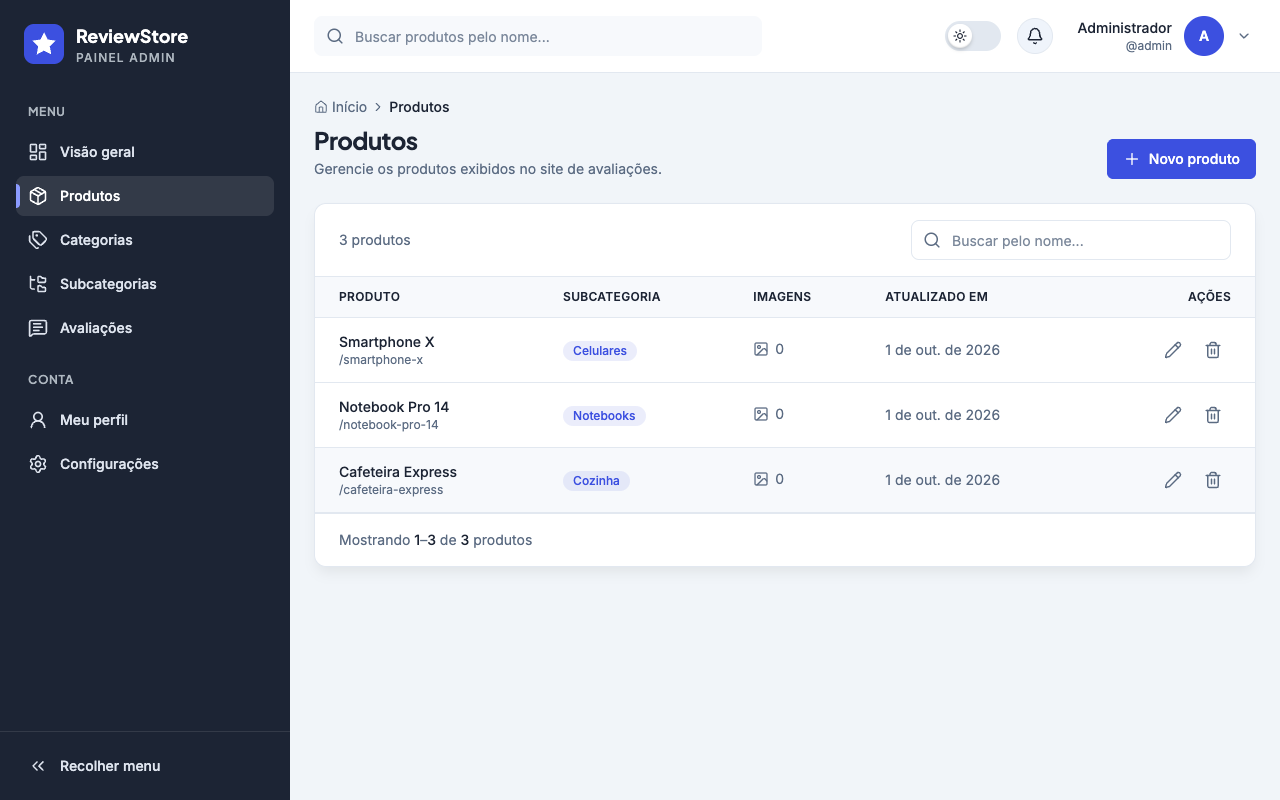
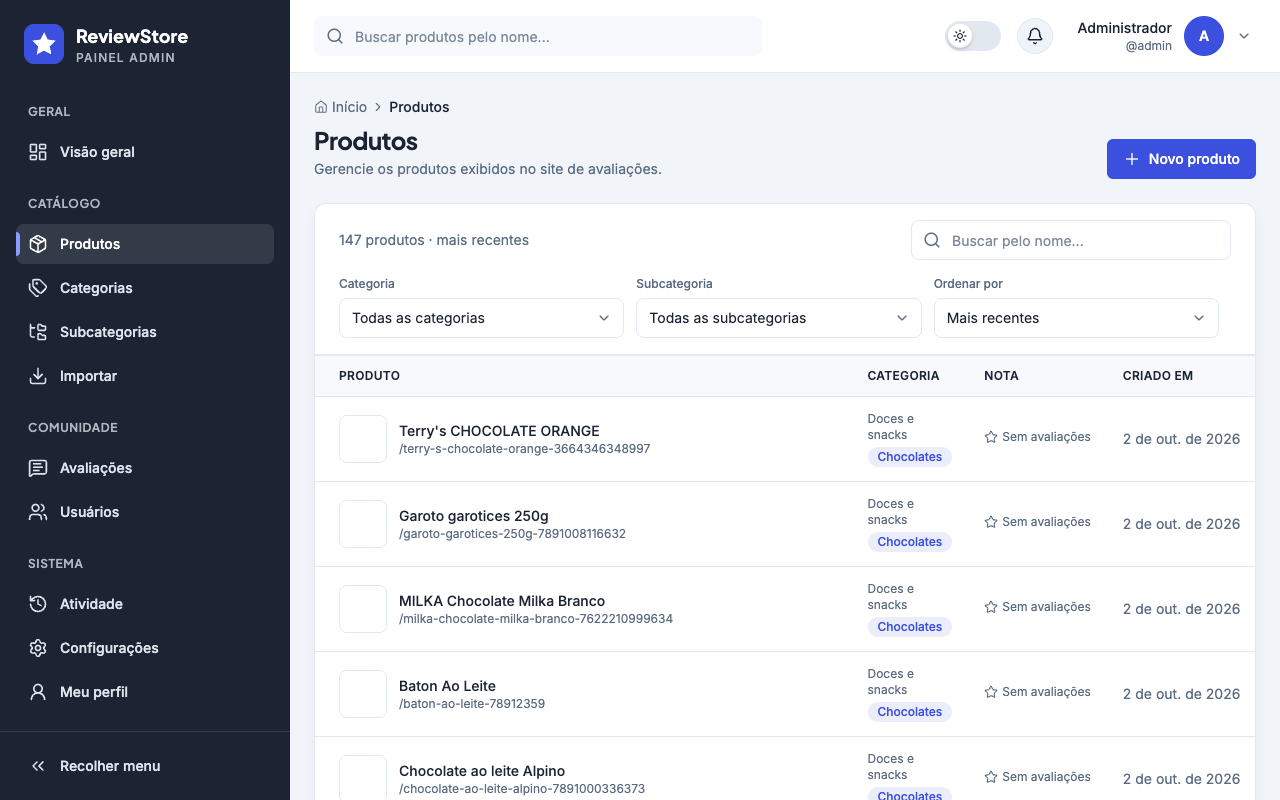
docs(readme): documenta gráficos, importação, moderação, usuários e atividade

diff --git a/README.md b/README.md
@@ -5,7 +5,7 @@
 # ReviewStore · Painel admin
 
 **Painel administrativo do catálogo e das avaliações do ecossistema _Production Review_.**
-Gerencie categorias, subcategorias, produtos e avaliações, e acompanhe tudo em tempo real.
+Gerencie o catálogo, importe produtos reais do Open Food Facts, modere avaliações, administre usuários e acompanhe tudo em gráficos, na trilha de auditoria e em tempo real.
 
 <p>
   <img alt="React 18" src="https://img.shields.io/badge/React-18-3C50E0?style=for-the-badge&logo=react&logoColor=white" />
@@ -15,6 +15,7 @@ Gerencie categorias, subcategorias, produtos e avaliações, e acompanhe tudo em
 </p>
 <p>
   <img alt="React Router" src="https://img.shields.io/badge/React_Router-7-1C2434?style=flat-square" />
+  <img alt="Recharts" src="https://img.shields.io/badge/gráficos-Recharts-1C2434?style=flat-square" />
   <img alt="TanStack Query" src="https://img.shields.io/badge/TanStack_Query-1C2434?style=flat-square" />
   <img alt="Vitest" src="https://img.shields.io/badge/testes-Vitest-1C2434?style=flat-square" />
   <img alt="Modo escuro" src="https://img.shields.io/badge/modo-escuro-24303F?style=flat-square" />
@@ -33,7 +34,7 @@ Gerencie categorias, subcategorias, produtos e avaliações, e acompanhe tudo em
 <br />
 
 <p align="center">
-  <img src="docs/screenshots/visao-geral.png" alt="Visão geral do painel com totais, nota média e avaliações recentes" width="100%" />
+  <img src="docs/screenshots/visao-geral.png" alt="Visão geral do painel com totais, gráfico de avaliações por dia, nota média por dia e distribuição de notas" width="100%" />
 </p>
 
 ---
@@ -42,11 +43,14 @@ Gerencie categorias, subcategorias, produtos e avaliações, e acompanhe tudo em
 
 | | |
 |---|---|
-| 📊 **Visão geral** | Totais de produtos, categorias, subcategorias e avaliações, nota média com distribuição e as avaliações mais recentes. |
-| 📦 **Catálogo completo** | CRUD de categorias, subcategorias e produtos, com slug gerado automaticamente a partir do nome (e editável). |
-| 🖼 **Imagens de produto** | Upload com validação de tipo e tamanho direto na edição do produto. |
-| 💬 **Moderação de avaliações** | Lista paginada com produto, autor, nota e data, e edição ou exclusão. |
-| 🔔 **Notificações em tempo real** | Cada nova avaliação chega via **SSE**, com aviso na tela e atualização automática da lista. |
+| 📊 **Visão geral com gráficos** | Totais (produtos, categorias, subcategorias, avaliações visíveis e ocultas, usuários), avaliações por dia com a nota média de cada dia, distribuição de notas, top 5 produtos e categorias e novos usuários por dia, com período de **7, 30 ou 90 dias**. |
+| 📦 **Catálogo completo** | CRUD de categorias, subcategorias e produtos, com slug gerado automaticamente a partir do nome (e editável). Produtos com **miniatura, nota média**, filtros por categoria/subcategoria e ordenação (recentes, nome, melhor avaliados, mais avaliados). |
+| 🖼 **Imagens de produto** | Galeria na edição do produto, com capa, origem (ex.: Open Food Facts) e **exclusão**; upload com validação de tipo e tamanho. |
+| 📥 **Importar catálogo** | Importação do **Open Food Facts** (dados abertos, ODbL) com **progresso ao vivo**: barra, passo atual, contadores, erros e resumo com links. Idempotente: nada é duplicado. |
+| 🛡 **Moderação de avaliações** | Abas *Todas · Visíveis · Ocultas* com contadores, filtros por produto, nota e texto, **ocultar com motivo obrigatório**, restaurar e quem moderou e quando. |
+| 👥 **Usuários** | Busca, filtros por perfil e situação, **tornar/remover administrador** e **desativar/reativar** com confirmação. As ações sobre a própria conta ficam bloqueadas, com explicação. |
+| 🕵 **Atividade (auditoria)** | Linha do tempo de todos os eventos (cadastros, logins, catálogo, avaliações, moderação, importações) com ícone e cor por tipo, filtros por tipo, entidade, período e busca, resumo por tipo e por dia e links para a entidade. |
+| 🔔 **Notificações em tempo real** | Cada nova avaliação chega via **SSE** com tipo do evento, data em que ocorreu e link direto, além de atualizar listas e gráficos. |
 | 🔐 **Sessão segura** | Cookies `httpOnly`, renovação automática pelo refresh token e tela de **acesso restrito** para quem não é administrador. |
 | 🌗 **Modo escuro** | Tema claro e escuro sincronizados em todo o painel, preferência salva no navegador. |
 | 📱 **Responsivo** | Menu lateral recolhível no desktop e em gaveta no celular. |
@@ -55,20 +59,36 @@ Gerencie categorias, subcategorias, produtos e avaliações, e acompanhe tudo em
 
 <table>
   <tr>
-    <td width="50%"><img src="docs/screenshots/produtos.png" alt="Tabela de produtos com busca, subcategoria e ações" /></td>
+    <td width="50%"><img src="docs/screenshots/produtos.png" alt="Tabela de produtos com miniatura, categoria, nota média, filtros e ordenação" /></td>
+    <td width="50%"><img src="docs/screenshots/importar.png" alt="Importação do Open Food Facts com explicação da fonte, licença e taxonomia" /></td>
+  </tr>
+  <tr>
+    <td align="center"><sub><b>Produtos</b>: miniatura, nota, filtros e ordenação</sub></td>
+    <td align="center"><sub><b>Importar catálogo</b>: Open Food Facts com progresso ao vivo</sub></td>
+  </tr>
+  <tr>
+    <td width="50%"><img src="docs/screenshots/avaliacoes.png" alt="Lista de avaliações com abas de status, filtros e ações de moderação" /></td>
+    <td width="50%"><img src="docs/screenshots/moderacao.png" alt="Modal de ocultar avaliação com motivo obrigatório" /></td>
+  </tr>
+  <tr>
+    <td align="center"><sub><b>Avaliações</b>: abas por status, filtros e ações</sub></td>
+    <td align="center"><sub><b>Moderação</b>: ocultar exige motivo</sub></td>
+  </tr>
+  <tr>
+    <td width="50%"><img src="docs/screenshots/usuarios.png" alt="Tabela de usuários com perfis, situação e ações de administrador" /></td>
+    <td width="50%"><img src="docs/screenshots/atividade.png" alt="Trilha de auditoria com resumo por tipo, eventos por dia e linha do tempo" /></td>
+  </tr>
+  <tr>
+    <td align="center"><sub><b>Usuários</b>: perfis, situação e ações</sub></td>
+    <td align="center"><sub><b>Atividade</b>: resumo e linha do tempo</sub></td>
+  </tr>
+  <tr>
     <td width="50%"><img src="docs/screenshots/novo-produto.png" alt="Formulário de novo produto agrupado em seções" /></td>
+    <td width="50%"><img src="docs/screenshots/modo-escuro.png" alt="Visão geral com gráficos no modo escuro" /></td>
   </tr>
   <tr>
-    <td align="center"><sub><b>Produtos</b>: busca, badges e ações</sub></td>
     <td align="center"><sub><b>Formulário</b>: seções, slug automático e validação</sub></td>
-  </tr>
-  <tr>
-    <td width="50%"><img src="docs/screenshots/avaliacoes.png" alt="Lista de avaliações com produto, autor, nota e data" /></td>
-    <td width="50%"><img src="docs/screenshots/modo-escuro.png" alt="Visão geral no modo escuro" /></td>
-  </tr>
-  <tr>
-    <td align="center"><sub><b>Avaliações</b>: produto, autor e nota</sub></td>
-    <td align="center"><sub><b>Modo escuro</b></sub></td>
+    <td align="center"><sub><b>Modo escuro</b>, inclusive nos gráficos</sub></td>
   </tr>
 </table>
 
@@ -98,7 +118,7 @@ npm run dev
 ```
 
 > [!TIP]
-> Todo cadastro novo recebe o perfil `USER`. Para transformar um usuário em administrador, associe-o ao perfil `ADMIN` no banco:
+> Todo cadastro novo recebe o perfil `USER`. Depois que existir um administrador, os demais são promovidos pela tela **Usuários**. Para criar o primeiro, associe-o ao perfil `ADMIN` no banco:
 > ```sql
 > INSERT INTO users_roles (user_id, role_id)
 > SELECT u.id, r.id FROM user u, role r WHERE u.username = 'seu-usuario' AND r.name = 'ADMIN';
@@ -112,7 +132,7 @@ npm run dev
 | `npm run build` | Checagem de tipos (`tsc -b`) + build de produção em `dist/` |
 | `npm run preview` | Serve o build de produção localmente |
 | `npm run lint` | ESLint em todo o projeto |
-| `npm test` | Testes unitários com Vitest (slug, mensagens de erro e schemas) |
+| `npm test` | Testes unitários com Vitest (slug, mensagens de erro, schemas, eventos de auditoria, status, progresso da importação e dados dos gráficos) |
 
 ### Docker
 
@@ -158,11 +178,13 @@ src/
 ├── modules/
 │   ├── auth/               # login, cadastro, ativação, esqueci/redefinir senha
 │   └── dashboard/
-│       ├── components/     # Sidebar, Header, PageHeader, StatCard, tabelas, formulários
+│       ├── components/     # Sidebar, Header, PageHeader, StatCard, tabelas, formulários, gráficos, moderação
 │       ├── hooks/          # queries, mutations, SSE de notificações, slug...
 │       ├── schemas/        # schemas zod compartilhados do catálogo
-│       ├── services/       # chamadas /category, /sub-categorie, /production, /review
-│       └── view/           # uma pasta por tela: home, *-list, create-*, edit-*, profile, settings
+│       ├── services/       # chamadas /category, /sub-categorie, /production, /review e /admin/*
+│       ├── utils/          # lógica pura testada: eventos, status, progresso, gráficos, datas relativas
+│       └── view/           # uma pasta por tela: home, *-list, create-*, edit-*, import-catalog,
+│                           # users, activity, profile, settings
 ├── shared/                 # componentes, hooks, tipos, utilitários e preferências (tema)
 ├── ProtectedRouter.tsx     # guarda de rota: sessão + perfil ADMIN
 └── routes.tsx
@@ -176,11 +198,25 @@ src/
 |---|---|
 | Categorias | `GET /category/list` · `GET/PUT/DELETE /category/{id}` · `POST /category/` |
 | Subcategorias | `GET /sub-categorie/list` · `GET/PUT/DELETE /sub-categorie/{id}` · `POST /sub-categorie/create` |
-| Produtos | `GET /production/list` · `GET /production/{id}` · `POST /production/add` · `PUT /production/update/{id}` · `DELETE /production/delete/{id}` |
+| Produtos | `GET /production/list?search&categoryId&subCategorieId&onlyRated&property&sort` · `GET /production/{id}` · `POST /production/add` · `PUT /production/update/{id}` · `DELETE /production/delete/{id}` |
 | Imagens | `POST /production/file` (multipart) · `DELETE /production/file/{id}` |
 | Avaliações | `GET /review/list` · `GET/PUT/DELETE /review/{id}` · `POST /review/` |
+| Moderação | `GET /admin/reviews?status&note&productId&search` · `PATCH /admin/reviews/{id}/moderation` |
+| Usuários | `GET /admin/users?search&role&active` · `PATCH /admin/users/{id}/admin` · `PATCH /admin/users/{id}/active` |
+| Estatísticas | `GET /admin/stats?days=7\|30\|90` |
+| Importação | `POST /admin/import/open-food-facts` · `GET /admin/import/jobs/{id}` (polling a cada 2 s) · `GET /admin/import/jobs/latest` |
+| Auditoria | `GET /admin/activity?type&entityType&search&from&to` · `GET /admin/activity/summary?from&to` |
 | Tempo real | `GET /notification/sse` |
 | Sessão | `POST /auth/sign-in` · `POST /auth/refresh-token` · `POST /auth/logout` · `GET /user/me` |
+
+> [!NOTE]
+> As rotas `/admin/*` exigem o perfil **ADMIN**. A auditoria passa pela API, que repassa para o serviço de logs; se ele estiver fora do ar, a tela mostra **“Serviço de auditoria indisponível”** com a opção de tentar novamente.
+
+### Decisões de UX
+
+- **Moderação dentro de Avaliações**, como abas *Todas · Visíveis · Ocultas*: é a mesma entidade e o administrador modera a partir da lista que já usa, sem alternar entre telas. `/dashboard/moderation` abre direto a aba *Ocultas*.
+- **Nota média em gráfico separado**, alinhado pelo mesmo eixo de datas e com tooltips sincronizados: contagem e nota têm escalas diferentes, e dois eixos Y no mesmo gráfico sugeririam correlações que não existem.
+- **Filtros na URL** (produtos, avaliações, usuários, atividade e período da visão geral): dá para compartilhar e voltar com o navegador sem perder o contexto.
 
 ## ♿ Acessibilidade
 
@@ -190,6 +226,9 @@ src/
 - **Tabelas**: `<caption>` e `<th scope="col">`; botões só com ícone têm `aria-label` e tooltip.
 - **Navegação**: `aria-current` no menu, breadcrumb e paginação; foco vai para o conteúdo a cada troca de rota.
 - **Feedback**: `aria-live` em contadores, paginação e notificações; nota em estrelas como grupo de rádios.
+- **Gráficos**: título, descrição, resumo em texto, `<title>`/`<desc>` no SVG e a tabela de dados em “Ver dados em tabela”; cores validadas para contraste e daltonismo nos dois temas.
+- **Progresso e ações**: barra com `role="progressbar"` e `aria-valuetext`, e regiões `aria-live` para o passo da importação, a moderação e as ações em usuários.
+- **Ações bloqueadas**: continuam focáveis (`aria-disabled`) para o tooltip explicar por que não estão disponíveis.
 - **Contraste**: tokens dedicados para manter AA também no modo escuro, e `prefers-reduced-motion` respeitado.
 
 ## 🎨 Design system
@@ -203,7 +242,9 @@ Mesma identidade visual do [site ReviewStore](https://github.com/erikomis/dashbo
 | `body` | ![#64748B](https://img.shields.io/badge/%2364748B-64748B?style=flat-square) | Texto auxiliar |
 | `whiten` | ![#F1F5F9](https://img.shields.io/badge/%23F1F5F9-F1F5F9?style=flat-square) | Fundo da página |
 | `boxdark` | ![#24303F](https://img.shields.io/badge/%2324303F-24303F?style=flat-square) | Superfícies no modo escuro |
-| `star` | ![#D97706](https://img.shields.io/badge/%23D97706-D97706?style=flat-square) | Estrelas das avaliações |
+| `star` | ![#D97706](https://img.shields.io/badge/%23D97706-D97706?style=flat-square) | Estrelas das avaliações e linha da nota média |
+
+Nos gráficos, as barras usam `primary` no tema claro e `#6577F3` no escuro (o `primary` puro perde contraste sobre `boxdark`).
 
 **Tipografia:** [Plus Jakarta Sans](https://fonts.google.com/specimen/Plus+Jakarta+Sans) nos títulos e [Inter](https://fonts.google.com/specimen/Inter) no texto.
 
@@ -212,6 +253,7 @@ Mesma identidade visual do [site ReviewStore](https://github.com/erikomis/dashbo
 | Projeto | Descrição |
 |---|---|
 | [**production-review-api**](https://github.com/erikomis/production-review-api) | API REST em Spring Boot: autenticação, catálogo e avaliações |
+| **production-review-api-logs** | Serviço de auditoria: consome os eventos do Kafka e grava no MongoDB (lido pela tela Atividade via API) |
 | [**dashboard-production-review-site**](https://github.com/erikomis/dashboard-production-review-site) | Site público onde as pessoas avaliam produtos |
 | [**dashboard-production-review-react**](https://github.com/erikomis/dashboard-production-review-react) | Este repositório: painel administrativo |
 
